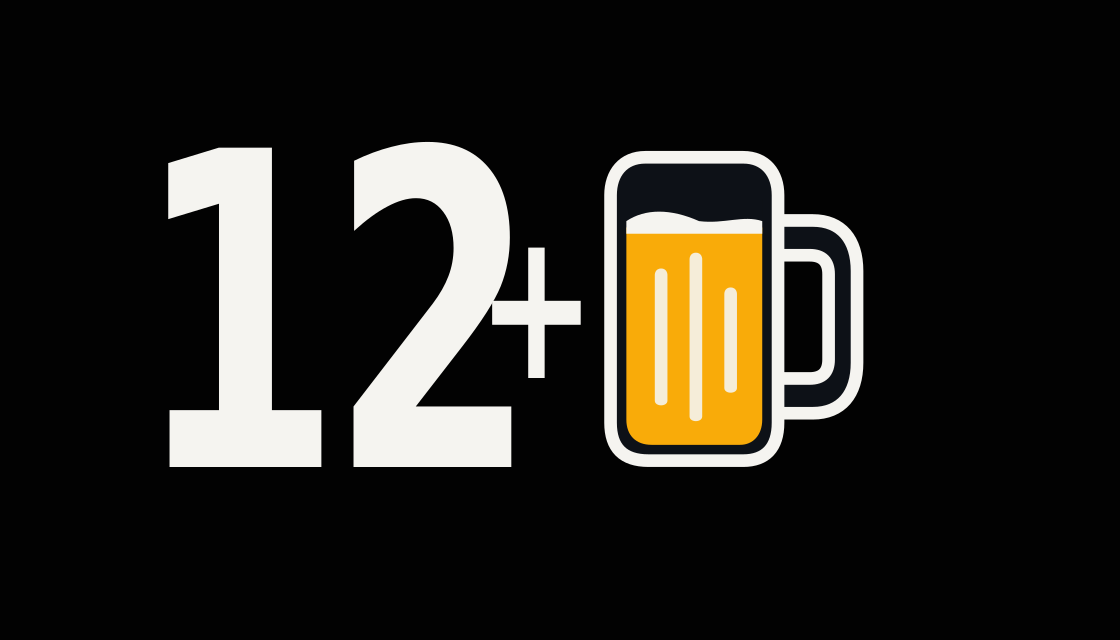
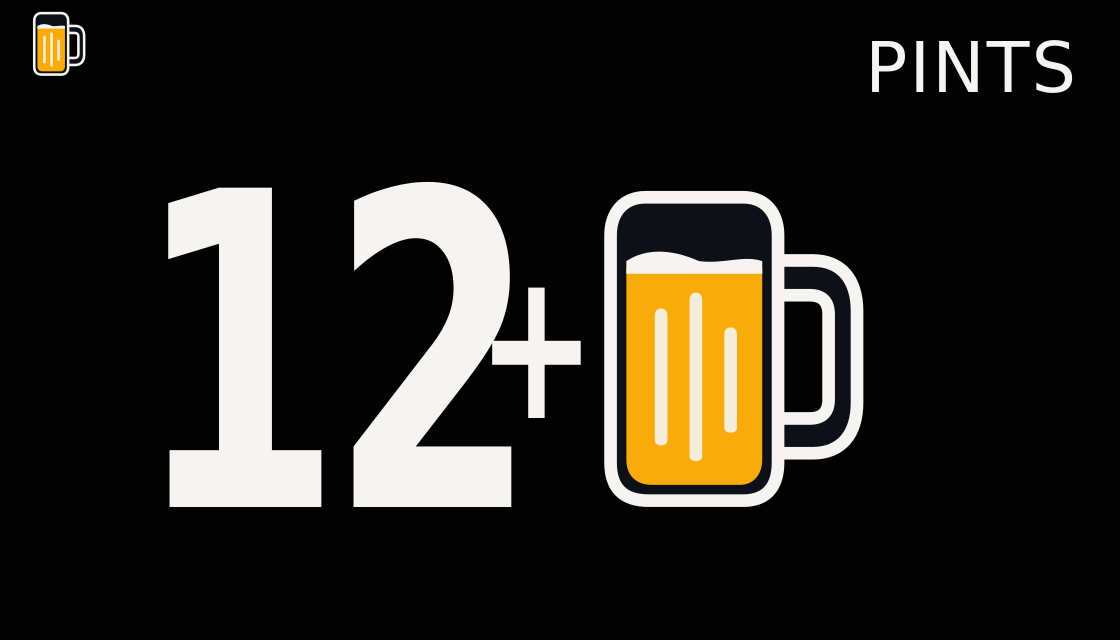
Add field header and preview loop

diff --git a/pint/src/main/kotlin/io/ericchernuka/pintprogress/PintProgressDataType.kt b/pint/src/main/kotlin/io/ericchernuka/pintprogress/PintProgressDataType.kt
@@ -26,7 +26,7 @@ class PintProgressDataType(
     extension: String,
 ) : DataTypeImpl(extension, TYPE_ID) {
     override fun startView(context: Context, config: ViewConfig, emitter: ViewEmitter) {
-        emitter.onNext(UpdateGraphicConfig(showHeader = false))
+        emitter.onNext(UpdateGraphicConfig(showHeader = true))
 
         val displayMetrics = context.resources.displayMetrics
         val renderer = PintRemoteViews(
@@ -57,16 +57,24 @@ class PintProgressDataType(
             )
         }
         if (config.preview) {
-            emitter.updateView(
-                renderer.render(
-                    display = PintPresentation.displayFor(PintViewReducer.previewFrame()),
-                    layout = layout,
-                    alignment = config.alignment,
-                    textSizeSp = config.textSize,
-                    boundariesEnabled = config.boundariesEnabled,
-                    fieldWidthDp = fieldSize.widthDp,
-                ),
-            )
+            val job = CoroutineScope(Dispatchers.Default).launch {
+                while (true) {
+                    PintViewReducer.previewFrames().forEach { frame ->
+                        emitter.updateView(
+                            renderer.render(
+                                display = PintPresentation.displayFor(frame),
+                                layout = layout,
+                                alignment = config.alignment,
+                                textSizeSp = config.textSize,
+                                boundariesEnabled = config.boundariesEnabled,
+                                fieldWidthDp = fieldSize.widthDp,
+                            ),
+                        )
+                        delay(VIEW_UPDATE_INTERVAL_MILLIS)
+                    }
+                }
+            }
+            emitter.setCancellable(job::cancel)
             return
         }
 

diff --git a/pint/src/main/kotlin/io/ericchernuka/pintprogress/PintAssetDrawables.kt b/pint/src/main/kotlin/io/ericchernuka/pintprogress/PintAssetDrawables.kt
@@ -7,7 +7,31 @@ import io.ericchernuka.pintprogress.core.PintFieldLayout
 
 /** Compile-time drawable mappings generated alongside the drawable vectors. */
 internal fun PintAsset.drawableRes(layout: PintFieldLayout): Int = when (layout) {
-    PintFieldLayout.PICKER -> R.drawable.pint_50_compact
+    PintFieldLayout.PICKER -> when (this) {
+        PintAsset.PINT_00 -> R.drawable.pint_00_compact
+        PintAsset.PINT_05 -> R.drawable.pint_05_compact
+        PintAsset.PINT_10 -> R.drawable.pint_10_compact
+        PintAsset.PINT_15 -> R.drawable.pint_15_compact
+        PintAsset.PINT_20 -> R.drawable.pint_20_compact
+        PintAsset.PINT_25 -> R.drawable.pint_25_compact
+        PintAsset.PINT_30 -> R.drawable.pint_30_compact
+        PintAsset.PINT_35 -> R.drawable.pint_35_compact
+        PintAsset.PINT_40 -> R.drawable.pint_40_compact
+        PintAsset.PINT_45 -> R.drawable.pint_45_compact
+        PintAsset.PINT_50 -> R.drawable.pint_50_compact
+        PintAsset.PINT_55 -> R.drawable.pint_55_compact
+        PintAsset.PINT_60 -> R.drawable.pint_60_compact
+        PintAsset.PINT_65 -> R.drawable.pint_65_compact
+        PintAsset.PINT_70 -> R.drawable.pint_70_compact
+        PintAsset.PINT_75 -> R.drawable.pint_75_compact
+        PintAsset.PINT_80 -> R.drawable.pint_80_compact
+        PintAsset.PINT_85 -> R.drawable.pint_85_compact
+        PintAsset.PINT_90 -> R.drawable.pint_90_compact
+        PintAsset.PINT_95 -> R.drawable.pint_95_compact
+        PintAsset.FULL_BUBBLES -> R.drawable.pint_full_bubbles_compact
+        PintAsset.DRAINING -> R.drawable.pint_draining_compact
+        PintAsset.UNAVAILABLE -> R.drawable.pint_unavailable_compact
+    }
     PintFieldLayout.REGULAR -> when (this) {
         PintAsset.PINT_00 -> R.drawable.pint_00
         PintAsset.PINT_05 -> R.drawable.pint_05

diff --git a/pint/src/test/kotlin/io/ericchernuka/pintprogress/PintAssetDrawablesTest.kt b/pint/src/test/kotlin/io/ericchernuka/pintprogress/PintAssetDrawablesTest.kt
@@ -1,0 +1,24 @@
+package io.ericchernuka.pintprogress
+
+import io.ericchernuka.pintprogress.core.PintAsset
+import io.ericchernuka.pintprogress.core.PintFieldLayout
+import org.junit.Assert.assertEquals
+import org.junit.Test
+
+class PintAssetDrawablesTest {
+    @Test
+    fun `picker maps each preview state to its compact drawable`() {
+        assertEquals(
+            R.drawable.pint_50_compact,
+            PintAsset.PINT_50.drawableRes(PintFieldLayout.PICKER),
+        )
+        assertEquals(
+            R.drawable.pint_80_compact,
+            PintAsset.PINT_80.drawableRes(PintFieldLayout.PICKER),
+        )
+        assertEquals(
+            R.drawable.pint_full_bubbles_compact,
+            PintAsset.FULL_BUBBLES.drawableRes(PintFieldLayout.PICKER),
+        )
+    }
+}

diff --git a/pint/src/test/kotlin/io/ericchernuka/pintprogress/core/PintViewReducerTest.kt b/pint/src/test/kotlin/io/ericchernuka/pintprogress/core/PintViewReducerTest.kt
@@ -65,7 +65,14 @@ class PintViewReducerTest {
         assertEquals(unavailablePlan(), PintViewReducer().accept(StreamState.Idle))
         assertEquals(unavailablePlan(), PintViewReducer().accept(StreamState.NotAvailable))
         assertEquals(unavailablePlan(), PintViewReducer().accept(StreamState.Searching))
-        assertEquals(PintFrame.Steady(PintProgress(0, 12)), PintViewReducer.previewFrame())
+        assertEquals(
+            listOf(
+                PintFrame.Steady(PintProgress(0, 10)),
+                PintFrame.Steady(PintProgress(0, 16)),
+                PintFrame.FullBubbles(0),
+            ),
+            PintViewReducer.previewFrames(),
+        )
     }
 
     private fun unavailablePlan() = RenderPlan(listOf(TimedFrame(0, PintFrame.Unavailable)))

diff --git a/pint/src/main/kotlin/io/ericchernuka/pintprogress/core/PintViewReducer.kt b/pint/src/main/kotlin/io/ericchernuka/pintprogress/core/PintViewReducer.kt
@@ -21,9 +21,11 @@ class PintViewReducer {
     }
 
     companion object {
-        const val PREVIEW_BUCKET = 12
-
-        fun previewFrame(): PintFrame.Steady = PintFrame.Steady(PintProgress(0, PREVIEW_BUCKET))
+        fun previewFrames(): List<PintFrame> = listOf(
+            PintFrame.Steady(PintProgress(completed = 0, fillBucket = 10)),
+            PintFrame.Steady(PintProgress(completed = 0, fillBucket = 16)),
+            PintFrame.FullBubbles(completed = 0),
+        )
 
         private fun progressFrom(state: StreamState): PintProgress? = when (state) {
             is StreamState.Streaming -> PintProgressReducer.progressFor(state.dataPoint.singleValue)

diff --git a/README.md b/README.md
@@ -8,19 +8,20 @@ One full mug corresponds to **150 kcal** by default, approximately a 12 fl oz / 
 
 ![Pint Progress graphical data field with twelve completed pints and an 80% filled beer mug](docs/images/pint-progress-preview.png)
 
-*Resource-accurate preview at 80% to the next beer and `12+` completed. The counter uses Android's Roboto Condensed Bold system face through `sans-serif-condensed`, with its visible height matched to the mug. Colors follow Android's light or dark configuration. Karoo host chrome varies by device software and is not shown.*
+*Resource-accurate value graphic at 80% to the next beer and `12+` completed. The representative header is owned by Karoo and can vary by device software. The counter uses Android's Roboto Condensed Bold system face through `sans-serif-condensed`, with its visible height matched to the mug. Colors follow Android's light or dark configuration.*
 
 Karoo supplies the cumulative calorie value through its `TYPE_CALORIES_ID` stream. Pint Progress does not calculate calories. Its fill level and completed-mug count follow Karoo's native calorie model and active ride state.
 
 The graphical field adapts to the allocated Karoo tile: full count plus mug for roomy fields, a reduced count plus mug for narrow or short fields, and a live mug-only treatment where a readable counter cannot fit. Before the first completed mug, the live field and data-picker preview preserve the mug's aspect ratio while filling the height Karoo actually allocates.
 
-Pint Progress gives every Karoo `ViewConfig` input explicit behavior. It converts physical `viewSize` pixels into the dp units used by Android layouts, with grid span as a fallback for older hosts that report `0×0`. It chooses the largest treatment whose mug, counter, and configured boundary inset fit. Karoo's numeric text size is a ceiling; the live width budget, font scale, and count length reduce it before the complete group can clip, including when `99` becomes `100`. The selected left/centre/right alignment is applied to the complete rendered group. See the [Karoo data-field contract](docs/KAROO_DATA_FIELD_CONTRACT.md) for the source-backed behavior matrix and required device checks.
+Pint Progress gives every Karoo `ViewConfig` input explicit behavior. It converts physical `viewSize` pixels into the dp units used by Android layouts, with grid span as a fallback for older hosts that report `0×0`. It chooses the largest treatment whose mug, counter, and configured boundary inset fit. Karoo's numeric text size is a ceiling; the live width budget, font scale, and count length reduce it before the complete group can clip, including when `99` becomes `100`. The selected left/centre/right alignment is applied to the complete rendered group. Karoo owns the standard mug-icon and compact `Pints` header, while the extension's `RemoteViews` contain only the value graphic. See the [Karoo data-field contract](docs/KAROO_DATA_FIELD_CONTRACT.md) for the source-backed behavior matrix and required device checks.
 
 ## Runtime behavior
 
 - The field subscribes to Karoo's calorie stream only while it is visible.
 - Normal rendering changes at 5% fill boundaries or completed-beer boundaries.
 - The completion animation has three static frames separated by one second, matching Karoo's limit of one view update per second.
+- The field preview loops through 50%, 80%, and full-with-bubbles frames at the same one-second cadence.
 - Pint Progress spaces every view update at least one second apart. It defers a quick source-state change rather than allowing Karoo to drop it.
 - The app has no timer, sensor scan, background job, bitmap allocation, or developer FIT field.
 
@@ -38,7 +39,7 @@ This command produces a local debug APK and an intentionally unsigned release AP
 
 1. Enable developer mode and USB debugging on the Karoo.
 2. Install the debug APK with `adb install -r pint/build/outputs/apk/debug/pint-debug.apk`.
-3. Add **Pint Progress** to a ride page from the Karoo data-field picker.
+3. Add **Pints** under **Pint Progress** to a ride page from the Karoo data-field picker.
 4. Start a ride with power-based calories available.
 
 The debug APK is for local development only. Do not attach it to a public release. GitHub Actions gives each changed CI build an increasing `versionCode`, but its default debug key is ephemeral, so a CI debug APK may require uninstalling a debug APK from a different run. An actual update must use the same project-owned signing key as the installed app. The release build is deliberately unsigned: any distributable release must be rebuilt from an audited commit, signed with that private key, and published with its version, commit, and SHA-256 recorded.

diff --git a/docs/KAROO_DATA_FIELD_CONTRACT.md b/docs/KAROO_DATA_FIELD_CONTRACT.md
@@ -22,16 +22,17 @@ SDK 1.1.9 and Android's `RemoteViews` and app-update requirements.
    and leaves its width content-sized so Karoo's alignment setting can move it.
 3. Before the first completed mug, and while data is unavailable, the live field uses the adaptive
    mug-only treatment. It must not keep an invisible counter's fixed-size count layout.
-4. Preview uses a representative half-full mug and the same adaptive sizing rule. Preview is a host
-   lifecycle state, not a fixed icon size.
+4. Preview cycles through the production 50%, 80%, and full-with-bubbles frames at one Hz, using
+   the same adaptive sizing rule. The loop is cancelled when Karoo detaches the preview.
 5. Once a completed count exists, the largest count-and-mug treatment that fits both dimensions is
    used. Counter size follows Karoo up to the mug-height and complete-group width budgets.
 6. Every `RemoteViews` update is constructed from a fresh instance and resets every property it
    relies on. Only Android-supported `RemoteViews` layouts and widgets are used.
 7. Actual view updates are spaced at least one second apart, and cancellation stops collection and
    pending animation frames when Karoo detaches the field.
-8. `showHeader = false` gives the graphical composition the complete tile. Pint Progress does not
-   also ask Karoo to render its numeric value through `formatDataTypeId`.
+8. `showHeader = true` asks Karoo to render the standard data-type icon and compact `Pints` label.
+   Pint Progress does not duplicate that chrome inside its `RemoteViews` or ask Karoo to render its
+   numeric value through `formatDataTypeId`.
 
 ## Installation and update rules
 
